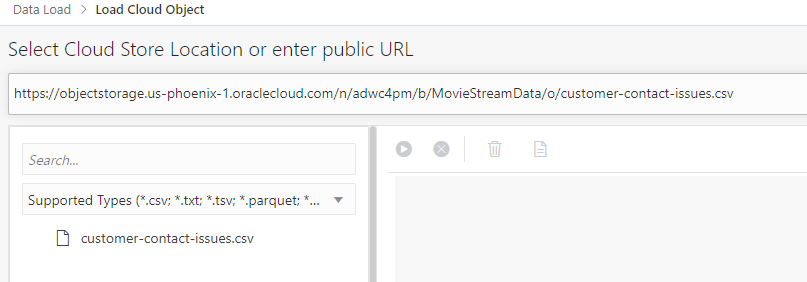
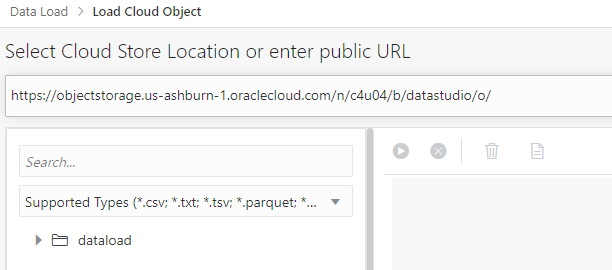
changes to load workshop

diff --git a/shared/workshops/adb-datastudio/data-load/6-feed.md b/shared/workshops/adb-datastudio/data-load/6-feed.md
@@ -1,10 +1,17 @@
-# Using Data Studio to set up a regular feed of data from cloud storage
+# Using Data Studio to set up a notification-based feed of data from Cloud Storage
 
 ## Introduction
 
-This lab shows how you can link your Autonomous Database to data in a cloud storage system, without loading it, so that you can query data which may be updated frequently in cloud storage.
+This lab shows how you can use Data Studio to set up a live feed of data from cloud storage into the Autonomous Database. Feeding data into the database is a useful capability when you have large-scale, regularly updated data in cloud storage which is central to your data warehouse, and which will therefore benefit from the performance optimizations of being loaded into the database rather than simply linked from it.
 
-Estimated Time: 20 minutes
+There are two types of live feed:
+
+1. Scheduled, where a feed job runs on a schedule and loads any new or changed data from cloud storage
+2. Notification-based, where the addition or update of data in cloud storage triggers a notification to the database to run the feed job
+
+In this lab, we will set up a notification-based live feed. In the lab, we will use Oracle Cloud Infrastructure Object Storage as the cloud object storage system, but the same approach can be used with any other cloud storage system that supports URI-based notifications, including Amazon Web Services S3, Azure Storage, and Google Cloud Platform Storage.
+
+Estimated Time: 30 minutes
 
 Watch the video below for a quick walk through of the lab.
 
@@ -14,8 +21,9 @@ Watch the video below for a quick walk through of the lab.
 
 In this lab, you will:
 
-- Connect your Autonomous Database to a cloud storage system
-- Create external tables in the database that link to files in cloud storage
+- Set up a new bucket in your cloud storage system, and configure it for send events when objects are changed
+- Use the Autonomous Database's built-in Data Studio application to set up a Data Feed job
+- Configure notification rules in your cloud storage system to trigger the Data Feed job when data in the bucket is added or updated
 
 ### Prerequisites
 
@@ -24,105 +32,61 @@ To complete this lab, you need to have completed Labs 1 and 2 in this workshop, 
 - Created an Autonomous Data Warehouse instance
 - Created a new QTEAM user
 
-You do not need to have completed Labs 3 or 4.
+You do not need to have completed Labs 3, 4 or 5.
 
-## Task 1: Connect to Cloud Storage
+You will also need login information for Oracle Cloud Infrastructure so that you can set up a new cloud storage bucket and notification rules.
 
-There are two parts to this process, and the first part only needs to be performed once. The two parts are:
+## Task 1: Create a new Cloud Storage bucket and configure it to send events
 
-1. Set up a connection to the cloud storage system
-2. Link to the files that we want to be able to access from the Autonomous Database.
+1. Log in to Oracle Cloud Infrastructure (OCI) at https://cloud.oracle.com 
 
-Note that in this example, we will be using files on Oracle Cloud Infrastructure Object Storage. However, the process is the same for loading files from other cloud storage systems, such as Amazon Web Services S3, Azure Storage, and Google Cloud Platform Storage.
+**Note**: See the **Get Started** lab at the beginning of this workshop for instructions to log in to OCI if you are using an Oracle Live Labs account. Otherwise, use your normal OCI credentials to log in to your tenancy.
 
-### Set Up a Cloud Location
+2. Click the menu in the top left of your screen, and select **Storage**
 
-1. To begin this process, you need to navigate to the **Data Load** page in Data Studio. 
-  ![The Data Studio cards on the Database Actions home page, with the Data Load card selected](images/go-to-dataload.png)
-2. On the **Data Load** main page, click the **Cloud Locations** card so you can define a new connection to your cloud storage system.
-  ![The Cloud Locations card in Data Studio](images/cloudlocations.png)
-3. Click the **Add Cloud Storage** button on the upper right and define a Cloud Storage location. Set the Name to **MOVIESTREAMGOLD**, select the **Public Bucket** radio option, and copy and paste the following Bucket URI:
+  ![The Oracle Cloud Infrastructure menu, with the Storage option selected](images/nav-to-storage.png)
 
- ```
-    $ <copy>https://objectstorage.us-ashburn-1.oraclecloud.com/n/c4u04/b/moviestream_gold/o</copy>
- ```
+3. Under **Object Storage & Archive Storage**, click **Buckets**
 
-  ![Cloud Location configuration showing complete URI](images/cloudstoragelink.png)
+  ![The Storage menu, with Buckets highlighted](images/buckets.png)
 
-  Your completed form should look like the one above. When you have completed these details, click **Next**.
+4. Under **Compartment**, select a suitable compartment for the new storage bucket. 
 
- 4. The **Cloud Data** page allows you to verify your cloud storage connection by showing a preview of the available objects contained in it. This is useful to ensure the location is set up correctly. In this case, this should look as below:
+**Note**: If you are using an Oracle Live Labs account, select the compartment created with your account. If you are working in your own tenancy, select any suitable compartment where you can create a new storage bucket. This example uses a compartment named 'sandbox'.
 
-   ![Contents of moviestream gold area](images/cloudstoragelink2.png)
+5. With a suitable compartment selected, click the **Create Bucket** button to set up a new bucket
 
- 5. Click the **Create** button to complete the registration of this cloud location.
+  ![The Create Bucket option](images/create-bucket-button.png)
 
-## Task 2: Link to data files in a Cloud Location
+6. On the **Create Bucket** screen, set up a bucket with the name 'feedlab' and be sure to tick the option to **Emit Object Events**. Keep the other options to the default values. Click on the **Create** button.
 
-1. Navigate back to the main Data Load page again using the breadcrumb link. Click the two cards for  **Link Data**  from  **Cloud Store** and then click the blue **Next** button. 
-  ![The Data Load page with Link Data and Cloud Store selected](images/linkcloud.png)
+  ![The Create Bucket screen with the Emit Object Events option ticked](images/create-bucket.png)
 
-2. Make sure the **MOVIESTREAMGOLD** cloud location is selected in the top dropdown box. Now you see a file browser-like view of your Object Store. Expand the **custsales** folder in the browser. We can see that there is a subfolder for each month of data, and the folder for each month contains a Parquet file. What we want to do here is to link all this data into a single external table, so that as the data for additional months are added, the external table will always be up-to-date. To do this, we can simply drag across the **custsales** folder to the right hand side:
+7. We will need a URI to access the bucket. Click the menu to the right of the bucket, and select **Create Pre-Authenticated Request**
 
-  ![The Data Load page with the custsales folder selected for linking](images/linkcustsales.png)
+  ![The bucket menu, with the Create Pre-Authenticated Request option selected](images/create-par.png)
 
-3. Click on the menu for the link task and click **Settings**.
+8. Name the pre-authenticated request **feedlab-par** and tick the option to **Enable Object Listing**, leaving the other options to their default values.
 
-4. Click the **SQL** option on the left hand side, so that we can see exactly how the external table will be created. 
+  ![The Create Pre-Authenticated Request window, with the option to enable object listing ticked](images/create-par-options.png)
 
-  ![The SQL that will be used to create the external table](images/linksql.png)
+Click the **Create Pre-Authenticated Request** button.
 
-Here, we can see that the external table will be created linking to the following URI, which encompasses all parquet files (*.parquet) that exist in the custsales folder:
+9. Copy the generated URL of the pre-authenticated request. You will need this later in the lab.
 
-```
-    $ <copy>https://objectstorage.us-ashburn-1.oraclecloud.com/n/c4u04/b/moviestream_gold/o/custsales/*.parquet</copy>
-```
+  ![Screen showing the generated URL of the Pre-Authenticated Request, with the copy button highlighed](images/par-uri.png)
 
-Click **Close** to close the settings window.
+**Note**: It is a good idea to paste this URL into a note or similar, and save it, as you will need it later and may copy other things before you need to paste it in later steps!
 
-5. Click the green run button to start the data linking job.
-
-  ![Start the data linking job](images/startlink.png)
-
-The job should take less than a minute to complete. You can see the number of rows (1m) linked into the table.
-
-  ![Cloud link task complete, with row count](images/linkcomplete.png)
-
-Click the **Done** option in the bottom right of the screen.
-
-## Query the new external table
-
-Now that we have linked to the directory of parquet files, we are set up to query and use the data in the Autonomous Database, even though the data is still resident on cloud storage. Let's run a simple query on the data.
-
-1. Go back to the **Database Actions** launchpad by clicking Database Actions in the top left of your screen.
-
-  ![Link to Database Actions launchpad](images/goto-launchpad.png)
-
-2. Click the **SQL** option to open SQL Developer Web.
-
-  ![Link to SQL on Database Actions](images/goto-sql.png)
-
-Note: If the **Data Loading** prompt appears, close it by clicking the x on the message box.
-
-3. Copy and paste the following SQL excerpt into the worksheet and click the green button to run the statement. This will add up all the values in all the records for the **ACTUAL_PRICE** column:
-
-```
-    $ <copy>select sum(actual_price) as total_sales from custsales;</copy>
-```
-
-The query will likely take a little bit of time to return, depending on how many CPUs your database has been provisioned with.
-
-4. The result should be as below:
-
-  ![Result of query of total sales](images/sum-sales.png)
 
 
 ## RECAP
 
 In this lab, you used Data Studio to link to data in cloud storage. Linking to data is a good option where you have large volumes of data being updated regularly on cloud storage, you need your queries always to reflect the latest data, and you do not necessarily need to load the data into database storage as well. 
 
+
 ## Acknowledgements
 
 - Created By/Date - Mike Matthews Product Management, Autonomous Database, January 2023
-- Contributors - Patrick Wheeler, Keith Laker, Ashish Jain, Rick Green, Nilay Panchal, Hermann Baer
+- Contributors - Jayant Mahto, Rick Green
 - Last Updated By - Mike Matthews, January 2023

diff --git a/shared/workshops/adb-datastudio/data-load/0-introduction.md b/shared/workshops/adb-datastudio/data-load/0-introduction.md
@@ -27,6 +27,9 @@ Before you launch into this workshop, you will need the following:
 
 If you have any questions about the topics covered in this lab and the entire workshop, please contact us by posting on our public forum on  **[cloudcustomerconnect.oracle.com](https://cloudcustomerconnect.oracle.com/resources/32a53f8587/)**  and we will respond as soon as possible.
 
+### How to use the Workshop
+
+Once you have completed labs 1 and 2 - that is, you have provisioned an Autonomous Database (or have one ready to use) and created a user, you can choose to complete any of the other labs, as they are designed to be independent from one another. For example, if you want to learn about setting up a notification-based live feed of data into the Autonomous Database from files on cloud storage, you can skip directly to lab 6. You can also choose to complete labs 3-6 in any order that you choose.
 
 ## Acknowledgements
 

diff --git a/shared/workshops/adb-datastudio/data-load/4-loadcloud.md b/shared/workshops/adb-datastudio/data-load/4-loadcloud.md
@@ -100,12 +100,12 @@ Where you want to download and load data from a file from a cloud location that 
 2. This time, rather than using the saved cloud store, we are going to paste the following URI into the cloud location bar:
 
  ```
-    $ <copy>https://objectstorage.us-phoenix-1.oraclecloud.com/n/adwc4pm/b/MovieStreamData/o</copy>
+    $ <copy>https://objectstorage.us-ashburn-1.oraclecloud.com/n/c4u04/b/datastudio/o/</copy>
  ```
 
   ![Load from Cloud Location directly from URI](images/load-from-uri.png)
 
-2. Drag over the file **customer-contact-issues.csv** to the right hand side.
+2. Expand the dataload folder and drag over the file **customer-contact-issues.csv** to the right hand side.
 
 3. Click on the menu of the load task and select **Settings**
 

diff --git a/shared/workshops/adb-datastudio/data-load/3-loadlocal.md b/shared/workshops/adb-datastudio/data-load/3-loadlocal.md
@@ -2,6 +2,7 @@
 # Using Data Studio to load data from local files
 
 ## Introduction
+
 This lab introduces the Data Studio application built into the Oracle Autonomous Database and shows the various ways it can load data into the database.
 
 This lab, and the full functionality of Data Studio, is applicable to both Autonomous Data Warehouse (ADW) and Autonomous Transaction Processing (ATP) databases. 
